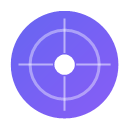
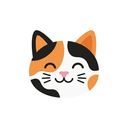
small changes

diff --git a/popup.html b/popup.html
@@ -3,7 +3,7 @@
 <head>
   <meta charset="UTF-8">
   <meta name="viewport" content="width=device-width, initial-scale=1.0">
-  <title>AutoClicker Pro</title>
+  <title>Auto Clicker Meow</title>
   <link rel="stylesheet" href="popup.css">
 </head>
 <body>
@@ -27,19 +27,49 @@
       <div class="header-left">
         <div class="logo">
           <svg width="28" height="28" viewBox="0 0 28 28" fill="none">
-            <circle cx="14" cy="14" r="13" stroke="url(#logo-grad)" stroke-width="2"/>
-            <circle cx="14" cy="14" r="5" fill="url(#logo-grad)"/>
-            <path d="M14 1 L14 5 M14 23 L14 27 M1 14 L5 14 M23 14 L27 14" stroke="url(#logo-grad)" stroke-width="1.5" stroke-linecap="round"/>
-            <defs>
-              <linearGradient id="logo-grad" x1="0" y1="0" x2="28" y2="28">
-                <stop offset="0%" stop-color="#818cf8"/>
-                <stop offset="100%" stop-color="#c084fc"/>
-              </linearGradient>
-            </defs>
+            <!-- Background (White) -->
+            <circle cx="14" cy="14" r="14" fill="#ffffff"/>
+            <!-- Ears -->
+            <!-- Left Ear Background (Orange) -->
+            <path d="M5 11 L4 4 L11 8 Z" fill="#f97316" stroke="#1e293b" stroke-width="1.5" stroke-linejoin="round"/>
+            <!-- Left Ear Inner -->
+            <path d="M6.5 9.5 L5.8 5.5 L9.5 8 Z" fill="#fee2e2"/>
+            
+            <!-- Right Ear Background (Black) -->
+            <path d="M23 11 L24 4 L17 8 Z" fill="#1e293b" stroke="#1e293b" stroke-width="1.5" stroke-linejoin="round"/>
+            <!-- Right Ear Inner -->
+            <path d="M21.5 9.5 L22.2 5.5 L18.5 8 Z" fill="#fee2e2"/>
+
+            <!-- Head Base (White) -->
+            <path d="M4 14 C4 9 24 9 24 14 C24 20 21 23 14 23 C7 23 4 20 4 14 Z" fill="#ffffff" stroke="#1e293b" stroke-width="1.5" stroke-linejoin="round"/>
+            
+            <!-- Orange Spot on Face (Left Side) -->
+            <path d="M4.1 14 C4.1 11.5 8 11.5 10 14 C11.5 16 9 19 4.8 17.5 C4.3 16.4 4.1 15.2 4.1 14 Z" fill="#f97316"/>
+            
+            <!-- Black Spot on Face (Right Side) -->
+            <path d="M23.9 14 C23.9 11.5 20 11.5 18 14 C16.5 16 19 19 23.2 17.5 C23.7 16.4 23.9 15.2 23.9 14 Z" fill="#1e293b"/>
+
+            <!-- Smile Eyes -->
+            <!-- Left Smile Eye (Black) -->
+            <path d="M8 14 C9 13 10 13 11 14" stroke="#1e293b" stroke-width="1.2" stroke-linecap="round"/>
+            <!-- Right Smile Eye (White against Black Spot) -->
+            <path d="M17 14 C18 13 19 13 20 14" stroke="#ffffff" stroke-width="1.2" stroke-linecap="round"/>
+
+            <!-- Nose & Smile Mouth -->
+            <path d="M14 16 L14 17.2 C13.5 17.5 12.8 17.8 12.2 17.5 M14 17.2 C14.5 17.5 15.2 17.8 15.8 17.5" stroke="#1e293b" stroke-width="1.2" stroke-linecap="round" stroke-linejoin="round"/>
+            <polygon points="13.2,15.5 14.8,15.5 14,16.2" fill="#ef4444"/>
+
+            <!-- Whiskers -->
+            <!-- Left Whiskers -->
+            <line x1="2" y1="16" x2="6" y2="16.5" stroke="#1e293b" stroke-width="1" stroke-linecap="round"/>
+            <line x1="2" y1="18" x2="5.5" y2="18" stroke="#1e293b" stroke-width="1" stroke-linecap="round"/>
+            <!-- Right Whiskers -->
+            <line x1="26" y1="16" x2="22" y2="16.5" stroke="#1e293b" stroke-width="1" stroke-linecap="round"/>
+            <line x1="26" y1="18" x2="22.5" y2="18" stroke="#1e293b" stroke-width="1" stroke-linecap="round"/>
           </svg>
         </div>
         <div class="header-info">
-          <h1>AutoClicker Pro</h1>
+          <h1>Auto Clicker Meow</h1>
           <p class="subtitle">Record &amp; Replay</p>
         </div>
       </div>

diff --git a/popup.css b/popup.css
@@ -1,4 +1,4 @@
-/* ─── AutoClicker Pro — Popup Styles ─── */
+/* ─── Auto Clicker Meow — Popup Styles ─── */
 /* Dark Glassmorphism Theme with Purple/Indigo Accent */
 
 /* ─── Reset & Base ─── */
@@ -255,11 +255,11 @@ html, body {
   display: flex;
   align-items: center;
   justify-content: center;
-  animation: logoSpin 20s linear infinite;
+  animation: logoPurr 3.5s ease-in-out infinite;
 }
-@keyframes logoSpin {
-  from { transform: rotate(0deg); }
-  to { transform: rotate(360deg); }
+@keyframes logoPurr {
+  0%, 100% { transform: scale(1); }
+  50% { transform: scale(1.08) rotate(3deg); }
 }
 .header-info h1 {
   font-size: 16px;

diff --git a/background.js b/background.js
@@ -1,4 +1,4 @@
-// AutoClicker Pro — Background Service Worker
+// Auto Clicker Meow — Background Service Worker
 // Manages state, message routing, storage, and keyboard shortcuts
 
 let state = {

diff --git a/content.js b/content.js
@@ -1,4 +1,4 @@
-// AutoClicker Pro — Content Script
+// Auto Clicker Meow — Content Script
 // Handles event recording, replay (with pause/resume), and auto-click on web pages
 
 (() => {

diff --git a/popup.js b/popup.js
@@ -1,4 +1,4 @@
-// AutoClicker Pro — Popup Script
+// Auto Clicker Meow — Popup Script
 // Handles UI interactions, messaging with background, and recording management
 
 document.addEventListener('DOMContentLoaded', async () => {